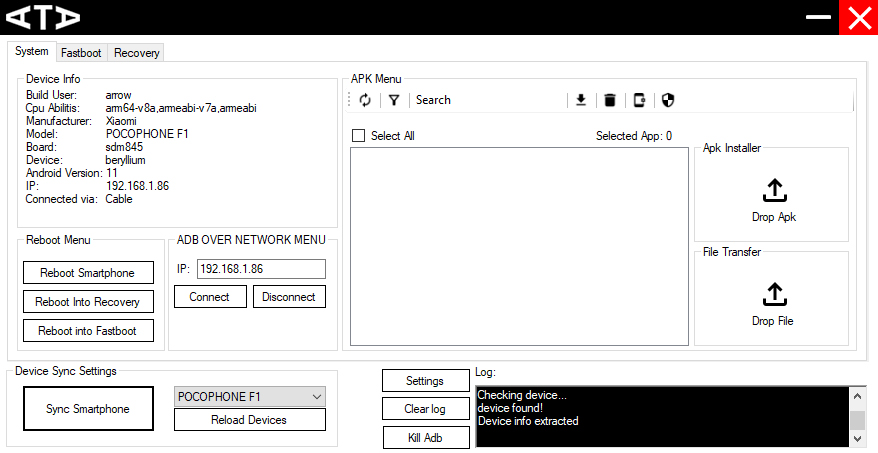
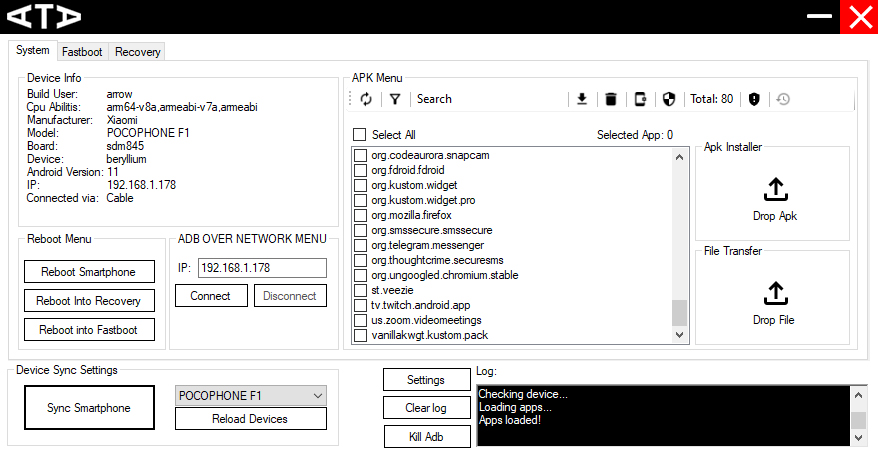
Update 1.5.0

diff --git a/ATA GUI/Forms/MainForm.Designer.cs b/ATA GUI/Forms/MainForm.Designer.cs
@@ -32,7 +32,7 @@ namespace ATA_GUI
             this.components = new System.ComponentModel.Container();
             System.ComponentModel.ComponentResourceManager resources = new System.ComponentModel.ComponentResourceManager(typeof(MainForm));
             this.panelTopBar = new System.Windows.Forms.Panel();
-            this.pictureBox1 = new System.Windows.Forms.PictureBox();
+            this.pictureBoxLogo = new System.Windows.Forms.PictureBox();
             this.button1 = new System.Windows.Forms.Button();
             this.buttonCloseWindows = new System.Windows.Forms.Button();
             this.labelLog = new System.Windows.Forms.Label();
@@ -89,6 +89,8 @@ namespace ATA_GUI
             this.toolStripLabelTotalApps = new System.Windows.Forms.ToolStripLabel();
             this.toolStripSeparator8 = new System.Windows.Forms.ToolStripSeparator();
             this.toolStripButtonBloatwareDetecter = new System.Windows.Forms.ToolStripButton();
+            this.toolStripSeparator9 = new System.Windows.Forms.ToolStripSeparator();
+            this.toolStripButtonRestoreApp = new System.Windows.Forms.ToolStripButton();
             this.checkedListBoxApp = new System.Windows.Forms.CheckedListBox();
             this.groupBoxADBNet = new System.Windows.Forms.GroupBox();
             this.label2 = new System.Windows.Forms.Label();
@@ -142,6 +144,7 @@ namespace ATA_GUI
             this.allToolStripMenuItem = new System.Windows.Forms.ToolStripMenuItem();
             this.systemAppToolStripMenuItem1 = new System.Windows.Forms.ToolStripMenuItem();
             this.nonSystemAppToolStripMenuItem1 = new System.Windows.Forms.ToolStripMenuItem();
+            this.uninstalledAppToolStripMenuItem = new System.Windows.Forms.ToolStripMenuItem();
             this.contextMenuStripPermissionMenu = new System.Windows.Forms.ContextMenuStrip(this.components);
             this.grantWriteSecureSettingsToolStripMenuItem = new System.Windows.Forms.ToolStripMenuItem();
             this.grantDUMPToolStripMenuItem = new System.Windows.Forms.ToolStripMenuItem();
@@ -150,11 +153,8 @@ namespace ATA_GUI
             this.buttonReloadDevicesList = new System.Windows.Forms.Button();
             this.comboBoxDevices = new System.Windows.Forms.ComboBox();
             this.backgroundWorkerAdbDownloader = new System.ComponentModel.BackgroundWorker();
-            this.toolStripSeparator9 = new System.Windows.Forms.ToolStripSeparator();
-            this.toolStripButtonRestoreApp = new System.Windows.Forms.ToolStripButton();
-            this.uninstalledAppToolStripMenuItem = new System.Windows.Forms.ToolStripMenuItem();
             this.panelTopBar.SuspendLayout();
-            ((System.ComponentModel.ISupportInitialize)(this.pictureBox1)).BeginInit();
+            ((System.ComponentModel.ISupportInitialize)(this.pictureBoxLogo)).BeginInit();
             this.groupBoxDeviceInfo.SuspendLayout();
             this.tabControl1.SuspendLayout();
             this.tabPageSystem.SuspendLayout();
@@ -180,7 +180,7 @@ namespace ATA_GUI
             // panelTopBar
             // 
             this.panelTopBar.BackColor = System.Drawing.SystemColors.ActiveCaptionText;
-            this.panelTopBar.Controls.Add(this.pictureBox1);
+            this.panelTopBar.Controls.Add(this.pictureBoxLogo);
             this.panelTopBar.Controls.Add(this.button1);
             this.panelTopBar.Controls.Add(this.buttonCloseWindows);
             this.panelTopBar.Location = new System.Drawing.Point(0, -3);
@@ -189,14 +189,15 @@ namespace ATA_GUI
             this.panelTopBar.TabIndex = 0;
             this.panelTopBar.MouseMove += new System.Windows.Forms.MouseEventHandler(this.panelTopBar_MouseMove);
             // 
-            // pictureBox1
+            // pictureBoxLogo
             // 
-            this.pictureBox1.Image = global::ATA_GUI.Properties.Resources.logo;
-            this.pictureBox1.Location = new System.Drawing.Point(8, 9);
-            this.pictureBox1.Name = "pictureBox1";
-            this.pictureBox1.Size = new System.Drawing.Size(79, 33);
-            this.pictureBox1.TabIndex = 3;
-            this.pictureBox1.TabStop = false;
+            this.pictureBoxLogo.Image = global::ATA_GUI.Properties.Resources.logo;
+            this.pictureBoxLogo.Location = new System.Drawing.Point(8, 9);
+            this.pictureBoxLogo.Name = "pictureBoxLogo";
+            this.pictureBoxLogo.Size = new System.Drawing.Size(79, 33);
+            this.pictureBoxLogo.TabIndex = 3;
+            this.pictureBoxLogo.TabStop = false;
+            this.pictureBoxLogo.Click += new System.EventHandler(this.pictureBoxLogo_Click); ;
             // 
             // button1
             // 
@@ -768,6 +769,22 @@ namespace ATA_GUI
             this.toolStripButtonBloatwareDetecter.Text = "Bloatware Detecter";
             this.toolStripButtonBloatwareDetecter.Click += new System.EventHandler(this.toolStripButtonBloatwareDetecter_Click);
             // 
+            // toolStripSeparator9
+            // 
+            this.toolStripSeparator9.Name = "toolStripSeparator9";
+            this.toolStripSeparator9.Size = new System.Drawing.Size(6, 25);
+            // 
+            // toolStripButtonRestoreApp
+            // 
+            this.toolStripButtonRestoreApp.DisplayStyle = System.Windows.Forms.ToolStripItemDisplayStyle.Image;
+            this.toolStripButtonRestoreApp.Image = ((System.Drawing.Image)(resources.GetObject("toolStripButtonRestoreApp.Image")));
+            this.toolStripButtonRestoreApp.ImageTransparentColor = System.Drawing.Color.Magenta;
+            this.toolStripButtonRestoreApp.Name = "toolStripButtonRestoreApp";
+            this.toolStripButtonRestoreApp.Size = new System.Drawing.Size(23, 22);
+            this.toolStripButtonRestoreApp.Tag = "";
+            this.toolStripButtonRestoreApp.Text = "Restore App";
+            this.toolStripButtonRestoreApp.Click += new System.EventHandler(this.toolStripButtonRestoreApp_Click);
+            // 
             // checkedListBoxApp
             // 
             this.checkedListBoxApp.BackColor = System.Drawing.Color.White;
@@ -1298,7 +1315,7 @@ namespace ATA_GUI
             this.nonSystemAppToolStripMenuItem1,
             this.uninstalledAppToolStripMenuItem});
             this.contextMenuStripFilterBy.Name = "contextMenuStripFilterBy";
-            this.contextMenuStripFilterBy.Size = new System.Drawing.Size(181, 114);
+            this.contextMenuStripFilterBy.Size = new System.Drawing.Size(164, 92);
             // 
             // allToolStripMenuItem
             // 
@@ -1320,6 +1337,13 @@ namespace ATA_GUI
             this.nonSystemAppToolStripMenuItem1.Size = new System.Drawing.Size(163, 22);
             this.nonSystemAppToolStripMenuItem1.Text = "Non System App";
             this.nonSystemAppToolStripMenuItem1.Click += new System.EventHandler(this.nonSystemAppToolStripMenuItem1_Click);
+            // 
+            // uninstalledAppToolStripMenuItem
+            // 
+            this.uninstalledAppToolStripMenuItem.Name = "uninstalledAppToolStripMenuItem";
+            this.uninstalledAppToolStripMenuItem.Size = new System.Drawing.Size(163, 22);
+            this.uninstalledAppToolStripMenuItem.Text = "Uninstalled App";
+            this.uninstalledAppToolStripMenuItem.Click += new System.EventHandler(this.uninstalledAppToolStripMenuItem_Click);
             // 
             // contextMenuStripPermissionMenu
             // 
@@ -1387,29 +1411,6 @@ namespace ATA_GUI
             // 
             this.backgroundWorkerAdbDownloader.DoWork += new System.ComponentModel.DoWorkEventHandler(this.backgroundWorkerAdbDownloader_DoWork);
             // 
-            // toolStripSeparator9
-            // 
-            this.toolStripSeparator9.Name = "toolStripSeparator9";
-            this.toolStripSeparator9.Size = new System.Drawing.Size(6, 25);
-            // 
-            // toolStripButtonRestoreApp
-            // 
-            this.toolStripButtonRestoreApp.DisplayStyle = System.Windows.Forms.ToolStripItemDisplayStyle.Image;
-            this.toolStripButtonRestoreApp.Image = ((System.Drawing.Image)(resources.GetObject("toolStripButtonRestoreApp.Image")));
-            this.toolStripButtonRestoreApp.ImageTransparentColor = System.Drawing.Color.Magenta;
-            this.toolStripButtonRestoreApp.Name = "toolStripButtonRestoreApp";
-            this.toolStripButtonRestoreApp.Size = new System.Drawing.Size(23, 22);
-            this.toolStripButtonRestoreApp.Tag = "";
-            this.toolStripButtonRestoreApp.Text = "Restore App";
-            this.toolStripButtonRestoreApp.Click += new System.EventHandler(this.toolStripButtonRestoreApp_Click);
-            // 
-            // uninstalledAppToolStripMenuItem
-            // 
-            this.uninstalledAppToolStripMenuItem.Name = "uninstalledAppToolStripMenuItem";
-            this.uninstalledAppToolStripMenuItem.Size = new System.Drawing.Size(180, 22);
-            this.uninstalledAppToolStripMenuItem.Text = "Uninstalled App";
-            this.uninstalledAppToolStripMenuItem.Click += new System.EventHandler(this.uninstalledAppToolStripMenuItem_Click);
-            // 
             // MainForm
             // 
             this.AllowDrop = true;
@@ -1433,7 +1434,7 @@ namespace ATA_GUI
             this.Load += new System.EventHandler(this.MainForm_Load);
             this.Shown += new System.EventHandler(this.MainForm_Shown);
             this.panelTopBar.ResumeLayout(false);
-            ((System.ComponentModel.ISupportInitialize)(this.pictureBox1)).EndInit();
+            ((System.ComponentModel.ISupportInitialize)(this.pictureBoxLogo)).EndInit();
             this.groupBoxDeviceInfo.ResumeLayout(false);
             this.groupBoxDeviceInfo.PerformLayout();
             this.tabControl1.ResumeLayout(false);
@@ -1507,7 +1508,7 @@ namespace ATA_GUI
         private System.Windows.Forms.CheckedListBox checkedListBoxApp;
         private System.Windows.Forms.Label labelIP;
         private System.Windows.Forms.Label label1;
-        private System.Windows.Forms.PictureBox pictureBox1;
+        private System.Windows.Forms.PictureBox pictureBoxLogo;
         private System.Windows.Forms.GroupBox groupBoxADBNet;
         private System.Windows.Forms.TextBox textBoxIP;
         private System.Windows.Forms.Button buttonConnectToIP;

diff --git a/ATA GUI/Forms/MainForm.cs b/ATA GUI/Forms/MainForm.cs
@@ -43,7 +43,7 @@ namespace ATA_GUI
         [DllImportAttribute("user32.dll")]
         public static extern bool ReleaseCapture();
 
-        private const string CURRENTVERSION = "v.1.4.1";
+        private const string CURRENTVERSION = "v.1.5.0";
 
         public MainForm()
         {
@@ -1388,18 +1388,25 @@ namespace ATA_GUI
 
         private void toolStripButtonRestoreApp_Click(object sender, EventArgs e)
         {
-            List<String> apps = new List<String>();
-            foreach(Object app in checkedListBoxApp.CheckedItems)
+            if (checkedListBoxApp.CheckedItems.Count > 0)
             {
-                apps.Add(app.ToString());
+                List<String> apps = new List<String>();
+                foreach (Object app in checkedListBoxApp.CheckedItems)
+                {
+                    apps.Add(app.ToString());
+                }
+                LoadingForm load = new LoadingForm(apps, "-s " + currentDeviceSelected + " shell cmd package install-existing ", "Restored:", currentDeviceSelected);
+                load.ShowDialog();
+                if (load.DialogResult != DialogResult.OK)
+                {
+                    MessageShowBox("Error during uninstallation process", 0);
+                }
+                syncFun(5);
             }
-            LoadingForm load = new LoadingForm(apps, "-s " + currentDeviceSelected + " shell cmd package install-existing ", "Restored:", currentDeviceSelected);
-            load.ShowDialog();
-            if (load.DialogResult != DialogResult.OK)
+            else
             {
-                MessageShowBox("Error during uninstallation process", 0);
+                MessageShowBox("No app selected", 1);
             }
-            syncFun(5);
         }
 
         private void uninstalledAppToolStripMenuItem_Click(object sender, EventArgs e)
@@ -1412,6 +1419,11 @@ namespace ATA_GUI
             allApk = false;
             systemApp = false;
             syncFun(5);
+        }
+
+        private void pictureBoxLogo_Click(object sender, EventArgs e)
+        {
+            System.Diagnostics.Process.Start("https://github.com/MassimilianoSartore/ATA-GUI");
         }
     }
 }

diff --git a/ATA GUI/Forms/Settings.cs b/ATA GUI/Forms/Settings.cs
@@ -12,7 +12,7 @@ namespace ATA_GUI
     {
         private string changelog = "";
 
-        private const string currentVersion = "v1.4.1";
+        private const string currentVersion = "v1.5.0";
 
         public Settings()
         {
@@ -37,9 +37,9 @@ namespace ATA_GUI
                 dynamic jsonReal = JsonConvert.DeserializeObject(json);
                 labelLatestRelease.Text = jsonReal[0]["tag_name"];
                 latestRelease.Number = int.Parse(Regex.Replace(labelLatestRelease.Text, @"[^\d]+(\d*:abc$)|[^\d]+", ""));
-                if (labelLatestRelease.Text.Contains("Pre")) latestRelease.Pre = true;
+                if (labelLatestRelease.Text.Contains("Pre")) { latestRelease.Pre = true; }
                 currentRelease.Number = int.Parse(Regex.Replace(currentVersion, @"[^\d]+(\d*:abc$)|[^\d]+", ""));
-                if (currentVersion.Contains("Pre")) currentRelease.Pre = true;
+                if (currentVersion.Contains("Pre")) { currentRelease.Pre = true; }
                 string linkString = jsonReal[0]["assets"][0]["browser_download_url"];
                 changelog = jsonReal[0]["body"];
                 if ((latestRelease.Number > currentRelease.Number) || ((latestRelease.Number == currentRelease.Number) && (currentRelease.Pre && !latestRelease.Pre)))

diff --git a/ATA GUI/Forms/About.Designer.cs b/ATA GUI/Forms/About.Designer.cs
@@ -65,7 +65,7 @@ namespace ATA_GUI
             this.label2.Name = "label2";
             this.label2.Size = new System.Drawing.Size(72, 13);
             this.label2.TabIndex = 1;
-            this.label2.Text = "Version: 1.4.1";
+            this.label2.Text = "Version: 1.5.0";
             // 
             // label1
             // 

diff --git a/README.md b/README.md
@@ -2,7 +2,7 @@
 
 <img src="Resources/interface.jpg">
 
-> **Last version:**  v1.4.0
+> **Last version:**  v1.5.0
 
 ## 💡Introduction
 ATA GUI is a project to port ATA to all the users. ATA GUI is an Advance Tool for Android™ powered by SDK Platform Tools. 
